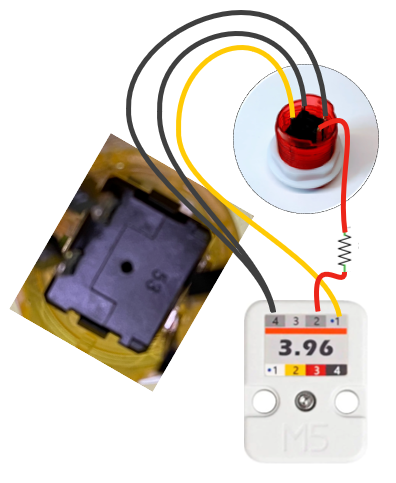
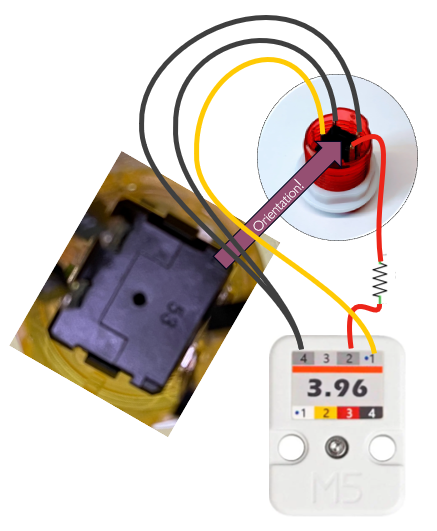
MàJ

diff --git a/rel-electro-immersif-src/m5stack/unit_396_bouton_arcade.md b/rel-electro-immersif-src/m5stack/unit_396_bouton_arcade.md
@@ -6,7 +6,7 @@
 
 ## Prépration
 
-![Soudure du bouton](./unit_396_bouton_arcade_soudure.png)
+![Soudure du bouton](./unit_396_bouton_arcade_identification.png)
 
 ![Connexion du bouton au Unit 3.96](./unit_396_bouton_arcade_connexion.png)
 
